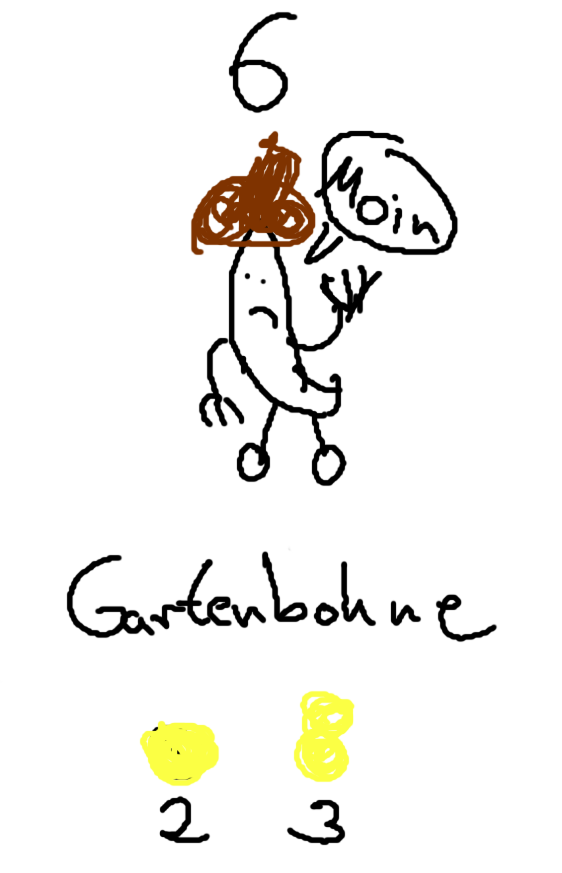
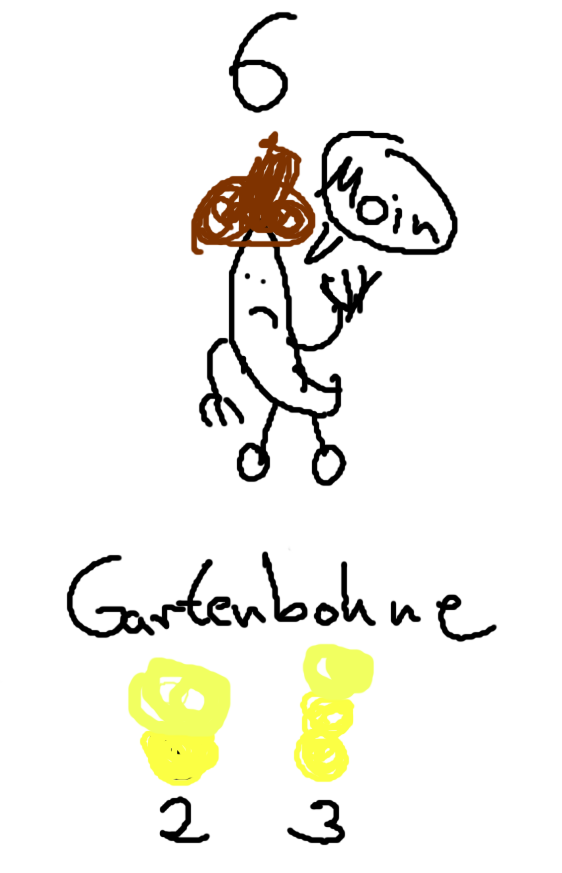
Harvesting now works as intended Also updated the garden bean sprite, because it was wrong

Changed region(s): [[0.2117, 0.7423, 0.4235, 0.866], [0.5142, 0.7113, 0.6655, 0.8041]]

diff --git a/client/src/scenes/game.js b/client/src/scenes/game.js
@@ -34,6 +34,7 @@ export default class Game extends Phaser.Scene {
         //Will be removed after testing
         this.isPlayerA = false;
         this.opponentCards = [];
+        this.playerCoins = 0;
         //TEST
         this.playerCount = 3;
 
@@ -49,42 +50,85 @@ export default class Game extends Phaser.Scene {
         //Create Player Zone for three fields
         this.fieldOne = new Zone(this);
         //TODO: Hardcoding is bad
-        //TODO: Drop relative to zone
         this.fieldOneDrop = this.fieldOne.renderZone(190, 580, 'playing_field_one', 'pfOne');
-		this.outline = this.fieldOne.renderOutline(this.fieldOneDrop);
-		this.harvestPfOneText = this.add.text(0, this.fieldOneDrop.height, ['Harvest Field']).setFontSize(15).setFontFamily('Trebuchet MS').setColor('#00ffff').setInteractive();
-		this.harvestPfOneText.x = (this.fieldOneDrop.x - (this.harvestPfOneText.width / 2));
+        this.outline = this.fieldOne.renderOutline(this.fieldOneDrop);
+        this.harvestPfOneText = this.add.text(0, this.fieldOneDrop.height, ['Harvest Field']).setFontSize(15).setFontFamily('Trebuchet MS').setColor('#00ffff').setInteractive();
+        this.harvestPfOneText.x = (this.fieldOneDrop.x - (this.harvestPfOneText.width / 2));
 
         this.fieldTwo = new Zone(this);
         this.fieldTwoDrop = this.fieldTwo.renderZone(554, 580, 'playing_field_two', 'pfTwo');
-		this.outline = this.fieldTwo.renderOutline(this.fieldTwoDrop);
-		this.harvestPfTwoText = this.add.text(0, this.fieldTwoDrop.height, ['Harvest Field']).setFontSize(15).setFontFamily('Trebuchet MS').setColor('#00ffff').setInteractive();
-		this.harvestPfTwoText.x = (this.fieldTwoDrop.x - (this.harvestPfTwoText.width / 2));
+        this.outline = this.fieldTwo.renderOutline(this.fieldTwoDrop);
+        this.harvestPfTwoText = this.add.text(0, this.fieldTwoDrop.height, ['Harvest Field']).setFontSize(15).setFontFamily('Trebuchet MS').setColor('#00ffff').setInteractive();
+        this.harvestPfTwoText.x = (this.fieldTwoDrop.x - (this.harvestPfTwoText.width / 2));
 
         this.fieldThree = new Zone(this);
         this.fieldThreeDrop = this.fieldThree.renderZone(920, 580, 'playing_field_three', 'pfThree');
-		this.outline = this.fieldThree.renderOutline(this.fieldThreeDrop);
-		this.harvestPfThreeText = this.add.text(0, this.fieldThreeDrop.height, ['Harvest Field']).setFontSize(15).setFontFamily('Trebuchet MS').setColor('#00ffff').setInteractive();
-		this.harvestPfThreeText.x = (this.fieldThreeDrop.x - (this.harvestPfThreeText.width / 2));
+        this.outline = this.fieldThree.renderOutline(this.fieldThreeDrop);
+        this.harvestPfThreeText = this.add.text(0, this.fieldThreeDrop.height, ['Harvest Field']).setFontSize(15).setFontFamily('Trebuchet MS').setColor('#00ffff').setInteractive();
+        this.harvestPfThreeText.x = (this.fieldThreeDrop.x - (this.harvestPfThreeText.width / 2));
 
         this.dealer = new Dealer(this);
 
-		this.socket = io('http://localhost:3000');
-		
-		this.harvestPfOneText.on('pointerdown', function() {
-			let values = self.fieldOneDrop.data.values;
-			if (values.beanType != null) {
-				values.beanType = null;
-				values.cards = 0;
-				//TODO: Split cards for harvest and dead drop deck
-				//For now we just delete the cards
-				for(let i = 0; i < values.contains.length; i++) {
-					let card = values.contains[i];
-					card.destroy();
-				}
-				values.contains = []
-			}
-		});
+        this.socket = io('http://localhost:3000');
+
+        this.coinsText = this.add.text(50, 50, ['Coins: ' + this.playerCoins]).setFontSize(15).setFontFamily('Trebuchet MS ').setColor('#00ffff');
+
+        this.harvestPfOneText.on('pointerdown', function() {
+            let values = self.fieldOneDrop.data.values;
+            let coins = values.contains[0].customData.values;
+            let type = values.beanType;
+
+            if (values.beanType != null) {
+                values.beanType = null;
+                values.cards = 0;
+
+                let harvested = harvest(values.contains.length, coins);
+                let reward = harvested[0];
+                let remainder = harvested[1];
+                self.playerCoins += reward;
+                self.coinsText.text = 'Coins: ' + self.playerCoins;
+                for (let i = 0; i < values.contains.length; i++) {
+                    let card = values.contains[i];
+                    card.destroy();
+                }
+                for (let i = 0; i < remainder; i++) {
+                    self.dealer.throwAway(new Card(self, type, coins));
+                }
+                console.log(self.dealer.throwDeck);
+                values.contains = []
+            }
+        });
+
+        function harvest(amount, values) {
+            Array.prototype.max = function() {
+                return Math.max.apply(null, this);
+            }
+            Array.prototype.min = function() {
+                return Math.min.apply(null, this);
+            }
+
+            var coins = 0;
+            var remainCards = 0;
+            while (amount != 0) {
+                while (amount > values.max()) {
+                    coins += (values.indexOf(values.max()) + 1);
+                    amount -= values.max();
+                }
+                if (values.includes(amount)) {
+                    coins += (values.indexOf(amount) + 1);
+                    amount = 0;
+                    continue;
+                } else if (amount < values.min()) {
+                    remainCards = amount;
+                    amount = 0;
+                    continue;
+                } else {
+                    amount--;
+                }
+            }
+            console.log(remainCards);
+            return [coins, remainCards];
+        }
 
         this.drawText.on('pointerdown', function() {
             //DEBUG
@@ -111,21 +155,20 @@ export default class Game extends Phaser.Scene {
         });
 
         this.input.on('drop', function(pointer, gameObject, dropZone) {
-            if(gameObject.customData.type === dropZone.data.values.beanType || dropZone.data.values.beanType == null) {
+            if (gameObject.customData.type === dropZone.data.values.beanType || dropZone.data.values.beanType == null) {
                 dropZone.data.values.cards++;
-				dropZone.data.values.beanType = gameObject.customData.type;
-				dropZone.data.values.contains.push(gameObject);
+                dropZone.data.values.beanType = gameObject.customData.type;
+                dropZone.data.values.contains.push(gameObject);
                 gameObject.x = dropZone.x;
-            	gameObject.y = dropZone.y + (dropZone.data.values.cards * 50);
-            	gameObject.disableInteractive();
-            	// Tell the server we played a card, so the other clients know
-				self.socket.emit('cardPlayed', gameObject, self.isPlayerA);
-			}
-			else {
-				gameObject.setTint();
-				gameObject.x = gameObject.input.dragStartX;
-				gameObject.y = gameObject.input.dragStartY;
-			}
+                gameObject.y = dropZone.y + (dropZone.data.values.cards * 50);
+                gameObject.disableInteractive();
+                // Tell the server we played a card, so the other clients know
+                self.socket.emit('cardPlayed', gameObject, self.isPlayerA);
+            } else {
+                gameObject.setTint();
+                gameObject.x = gameObject.input.dragStartX;
+                gameObject.y = gameObject.input.dragStartY;
+            }
         });
 
         this.socket.on('connect', function() {

diff --git a/client/src/helpers/dealer.js b/client/src/helpers/dealer.js
@@ -5,12 +5,12 @@ import Deck from './deck';
 export default class Dealer {
     constructor(scene) {
         //Init decks
-        let playDeck = new Deck(scene);
-        playDeck.createFullSet();
-        let throwDeck = new Deck(scene);
+        this.playDeck = new Deck(scene);
+        this.playDeck.createFullSet();
+        this.throwDeck = new Deck(scene);
         this.dealCards = (players) => {
             //On game Start
-            let playCards = playDeck.draw(5);
+            let playCards = this.playDeck.draw(5);
 
             for (let i = 0; i < 5; i++) {
                 let card = playCards[i];
@@ -19,8 +19,11 @@ export default class Dealer {
         }
         this.draw = () => {
             //Debug reasons
-            let card = playDeck.draw(1)[0];
+            let card = this.playDeck.draw(1)[0];
             card.render(800, 650, 'bean_' + card.type);
+        }
+        this.throwAway = (card) => {
+            this.throwDeck.putCardOn(card);
         }
     }
 

diff --git a/client/src/helpers/zone.js b/client/src/helpers/zone.js
@@ -5,7 +5,7 @@ export default class Zone {
         this.renderZone = (x, y, sprite, name) => {
             let background = scene.add.image(x, y, sprite);
             let dropZone = scene.add.zone(x, y, background.displayWidth, background.displayHeight).setRectangleDropZone(background.displayWidth, background.displayHeight);
-            dropZone.setData({ cards: 0, beanType: null, name: name, contains: []});
+            dropZone.setData({ cards: 0, beanType: null, name: name, contains: [] });
             return dropZone;
         };
         this.renderOutline = (dropZone) => {

diff --git a/client/src/helpers/card.js b/client/src/helpers/card.js
@@ -6,7 +6,10 @@ export default class Card {
         this.render = (x, y, sprite) => {
             //Render card at x,y with the sprite
             let card = scene.add.image(x, y, sprite).setScale(0.3, 0.3).setInteractive();
-            card.customData = {type: this.type, values: this.values};
+            card.customData = {
+                type: this.type,
+                values: this.values
+            };
             scene.input.setDraggable(card);
             return card;
         }
